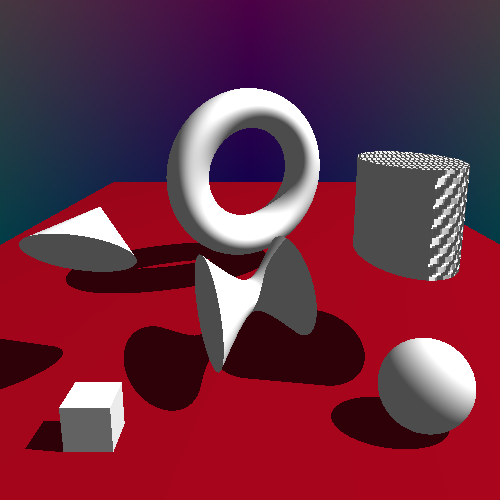
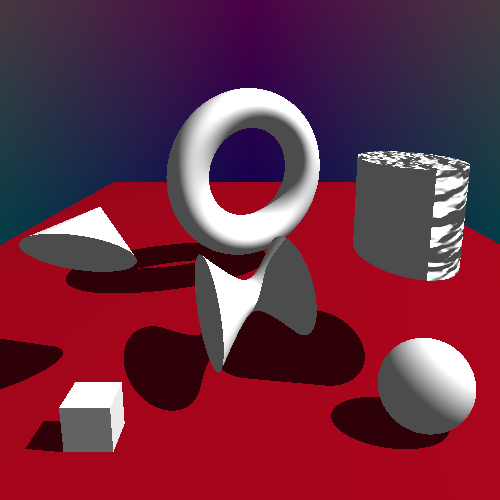
k

Changed region(s): [[0.72, 0.3, 0.96, 0.57]]

diff --git a/A4/A4.cpp b/A4/A4.cpp
@@ -83,8 +83,8 @@ dvec4 pertnorm(Texture *texture, int bump_channel, const UVPackage &uvp, const d
   if (texture == NULL) {
     return dvec4(0.0, 0.0, 0.0, 0.0);
   } else {
-    cout << texture->getNormPerturbance(norm, uvp, bump_channel) << endl;
-    return texture->getNormPerturbance(norm, uvp, bump_channel);
+    cout << normalize(norm + texture->getNormPerturbance(norm, uvp, bump_channel)) << endl;
+    return normalize(norm + texture->getNormPerturbance(norm, uvp, bump_channel));
   }
 }
 
@@ -101,7 +101,7 @@ dvec3 trace(const FlatPrimitives &nodes, const dvec4 &ray_origin, const dvec4 &r
     MaterialPackage &matpack = pt.m_material_1;
     PhongMaterial mat = *matpack.m_material;
 
-    dvec4 normal = normalize(pt.normal_1 + pertnorm(matpack.m_bumps, matpack.bump_channel, pt.uvp_1, pt.normal_1));
+    dvec4 normal = pertnorm(matpack.m_bumps, matpack.bump_channel, pt.uvp_1, pt.normal_1);
     dvec3 ks = mat.m_ks;
     dvec3 kd = mat.m_kd * kdmult(matpack.m_texture, pt.uvp_1.uv);
 
